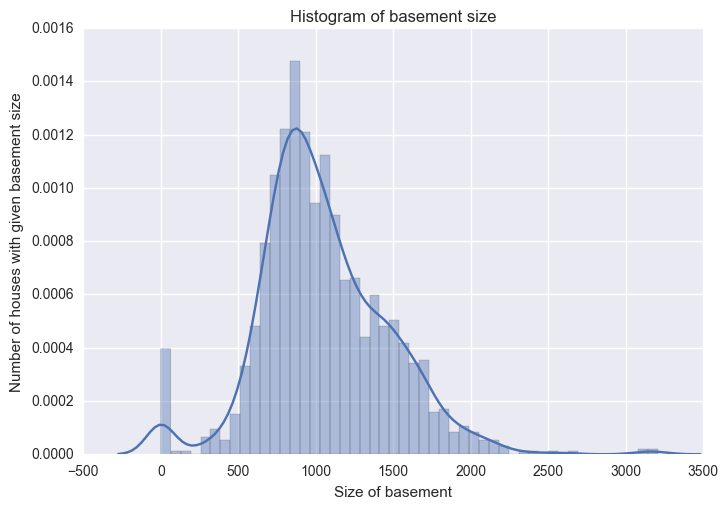
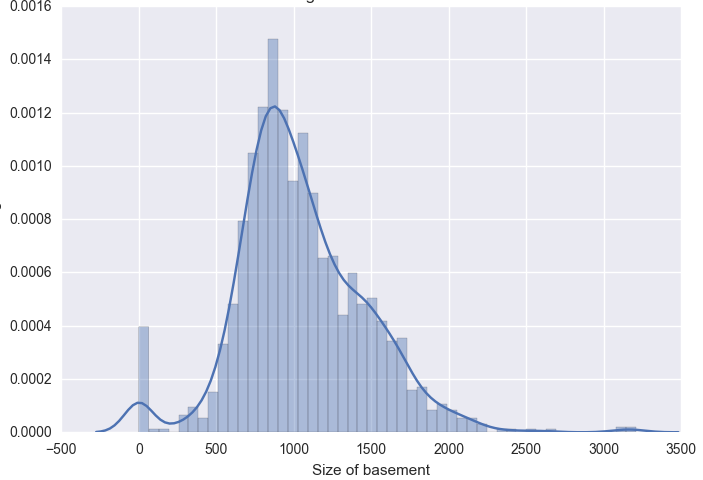
image links

diff --git a/_posts/2017-08-18-house-prices-regression.md b/_posts/2017-08-18-house-prices-regression.md
@@ -29,7 +29,7 @@ test.head(5)
 Some of the columns in the training dataset seem to have a lot of missing values. It would be sensible to drop 
 these columns if the number of missing values comprises more than some threshold (say 15%) of the data in the column.
 
-```
+```python
 frac = train.shape[0]*0.9 # number of non NA values we are satisfied with in each column . Lets say we need at least 90% non-NA values (columns with more than these will be dropped)
 percent_missing = (100*(train.isnull().sum())/train.shape[0]).round(1) 
 percent_missing.sort_values(ascending = False).head(20)
@@ -161,6 +161,8 @@ f,ax = plt.subplots(figsize =(10,10))
 sns.heatmap(corr_matrix, vmax=1,square=True)
 ```
 
+<img src="screenshots/house-prices/heat-map.png">
+
 We find similar variables correlating with each other e.g. `GarageCars` and `GarageArea`, `1stFlrSF` and `TotalBsmtSF`, 
 `GLivArea` and `TotRmsAbvGrd`, `Kitchen`/`external_Qual` shows some correlation with the overall quality 
 (compound variable) and year built. So we can drop one of the variables which show multicollinearity. Here `GarageArea`,
@@ -198,32 +200,28 @@ rules of thumb like: Any value, which is beyond the range of -1.5 x IQR to 1.5 x
 standard deviation away from mean If a few isolated points lie outside the general trend line, then they can be deleted.
 
 ```python
-plt.figure(1)
+import seaborn as sns
+import matplotlib.pyplot as plt 
+%matplotlib inline
+
+plt.figure()
 sns.set(color_codes=True)
 ax = sns.regplot(x="GrLivArea", y="SalePrice", data=train)
 plt.title('Sale Price vs Ground Living Area')
 
-plt.figure(2)
-sns.set(color_codes=True)
-ax = sns.regplot(x="TotalBsmtSF", y="SalePrice", data=train)
-plt.title('Sale Price vs Total Basement size')
-
-plt.figure(3)
-sns.set(color_codes=True)
-ax = sns.regplot(x="FullBath", y="SalePrice", data=train, fit_reg = False)
-plt.title('Sale Price vs Number of bathrooms')
-
-plt.figure(4)
-sns.set(color_codes=True)
-ax = sns.regplot(x="YearBuilt", y="SalePrice", data=train)
-plt.title('Sale Price vs Year Built')
-
-
-plt.figure(5)
-sns.set(color_codes=True)
-ax = sns.regplot(x="GarageCars", y="SalePrice", data=train, fit_reg = False)
-plt.title('Sale Price vs Garage Cars')
 ```
+
+<img src="screenshots/house-prices/scatter/groundliving.png">
+
+<img src="screenshots/house-prices/scatter/basementsize.png">
+
+<img src="screenshots/house-prices/scatter/numberbathrooms.png">
+
+<img src="screenshots/house-prices/scatter/yearbuilt.png">
+
+<img src="screenshots/house-prices/scatter/garagecars.png">
+
+
 Four outliers in the graphs above will be dropped. These corresponding to `GrLivArea` > 4500 and 
 `SalePrice` between 7000 and 8000 in the `Sale Price vs Year Built` graph. The isolated 
 point  in the `Sale Price vs Total Basement Size` graph, corresponding to `TotalBsmtSF` > 6000 
@@ -236,92 +234,53 @@ train =train.drop(train[train.SalePrice == 755000].index)
 train =train.drop(train[train.SalePrice == 745000].index)
 ```
 
-### Normality and linearity
-
-```python
-plt.figure(1)
-sns.distplot(train['SalePrice'], 50)
-plt.xlabel("Sale prices in dollars")
-plt.ylabel("Number of houses with sales price") 
-plt.title("Histogram of sales prices of homes")
-plt.grid(True) 
-plt.show()
-
-
-plt.figure(2)
-sns.distplot(train['TotalBsmtSF'], 50)
-plt.xlabel("Size of basement")
-plt.ylabel("Number of houses with given basement size") 
-plt.title("Histogram of basement size")
-plt.grid(True) 
-plt.show()
-
-plt.figure(3)
-sns.distplot(train['GrLivArea'], 50)
-plt.xlabel("Ground Area")
-plt.ylabel("Number of houses with sales price") 
-plt.title("Histogram of sales prices of homes")
-plt.grid(True) 
-plt.show()
-```
-
 ### Standardisation of datasets
+
+
+<img src="screenshots/house-prices/histogram/basementsize.png">
+
+<img src="screenshots/house-prices/histogram/groundarea.png">
+
 
 Since univariate distributions above are skewed, the data needs to be standardised so individual features are more
 or less look like standard normally distributed data: Gaussian with zero mean and unit variance. One way of doing
 this is by removing the mean value of each feature, then scale it by dividing non-constant features by their standard
-deviation. Alternatively, a log transofrmation can be applied althought it can’t be applied to zero or negative values.
+deviation. Alternatively, a log transformation can be applied althought it can’t be applied to zero or negative values.
 Our second histogram above shows some zero values for basement size which would not be suitable for log transformation
 unless they are removed.
 
+We can do this using the code block below. This will log transform the histogram of ground living area.
 
 ```python
+import numpy as np 
+import matplotlib.pyplot as plt 
+import seaborn as sns
+
 train_new = train.drop(train[train['TotalBsmtSF']==0].index, axis =0)
 
 train_new.loc[:,['SalePrice','TotalBsmtSF','GrLivArea','YearBuilt']] = np.log(train_new[['SalePrice','TotalBsmtSF','GrLivArea','YearBuilt']])
-plt.figure(1)
-sns.distplot(train_new['SalePrice'], 50, color = "g")
-plt.xlabel("log Sale prices")
-plt.ylabel("Number of houses with given price") 
-plt.title("Histogram of sales prices following log transformation")
-plt.grid(True) 
-plt.show()
 
-plt.figure(2)
-sns.distplot(train_new['TotalBsmtSF'], 50, color ="g")
-plt.xlabel("Size of basement")
-plt.ylabel("Number of houses with given basement size") 
-plt.title("Histogram of basement size")
-plt.grid(True) 
-plt.show()
-
-plt.figure(3)
-sns.distplot(train_new['GrLivArea'], 50, color ="g")
-plt.xlabel("Sale prices in dollars")
-plt.ylabel("Number of houses with sales price") 
-plt.title("Histogram of sales prices of homes")
-plt.grid(True) 
-plt.show()
-```
-The distrbutions are now centred and more normally distributed and less skewed.
-
-### Scatter plots after log transformation
-
-We can see that the dense clutter in the scatter plots are now shifted towards the centre following log transormation. 
-As a result, the data will exhibit less less heteroskedasticity (absence of the conical shape like in the 
-previous plots).
-
-```python
 plt.figure()
 sns.set(color_codes=True)
 ax = sns.regplot(x="GrLivArea", y="SalePrice", data=train_new)
 plt.title('Log Sale Price vs Log Ground Living Area')
-
-plt.figure()
-sns.set(color_codes=True)
-ax = sns.regplot(x="TotalBsmtSF", y="SalePrice", data=train_new)
-plt.title('Log Sale Price vs Log Total Basement size')
 ```
+
+<img src="screenshots/house-prices/histogram/loggroundarea.png">
+
+The distribution is now centred and more normally distributed and less skewed.
+
+Similarly we can do the same for the other histograms for `TotalBsmtSF`
+
+<img src="screenshots/house-prices/histogram/logbasementsize.png">
+
+We can see that the dense clutter in the scatter plots are now shifted towards the centre following log 
+transormation. As a result, the data will exhibit less less heteroskedasticity (absence of the conical shape 
+like in the previous plots).
+
+<img src="screenshots/house-prices/scatter/logbasementsize.png">
+
+<img src="screenshots/house-prices/scatter/loggroundarea.png">
 
 
 Now lets apply all the pre-processing tasks above to the test data. We can directly keep the same features in the 
@@ -396,14 +355,15 @@ from sklearn.cross_validation import cross_val_score,cross_val_predict,Stratifie
 from sklearn import linear_model, svm
 from sklearn.ensemble import GradientBoostingRegressor as xgb 
 from sklearn.metrics import confusion_matrix,accuracy_score,f1_score
+from sklearn import preprocessing 
 
-# Ridge Regression with built in cross validation
+# Ridge Regression 
 
 clf_Ridge = linear_model.Ridge(fit_intercept=True, normalize=True, alpha = 0.01) 
 clf_Ridge.fit(train_x, train_y)  
 clf_Ridge_score = cross_val_score(clf_Ridge,train_x, train_y, cv = 10, scoring = 'r2')
 
-# Support Vecotr Regression #####
+# Support Vector Regression 
 X_scaler = preprocessing.StandardScaler()
 train_x = X_scaler.fit_transform(train_x)
 clf_SVR = svm.SVR(kernel='rbf', gamma='auto',C = 1,epsilon = 0.1)
@@ -429,6 +389,14 @@ print("The R2 score using for Ridge is %f" % (clf_Ridge_score.mean()))
 print("The R2 score for Lasso is %f" % (clf_lasso_score.mean())) 
 print("The R2 score for SVR is %f" % (clf_SVR_score.mean())) 
 print("The R2 score for Gradient Boosting Regression is %f" % (clf_xgb_score.mean())) 
+
+
+'''
+The R2 score using for Ridge is 0.825067
+The R2 score for Lasso is 0.825010
+The R2 score for SVR is 0.826482
+The R2 score for Gradient Boosting Regression is 0.834290
+'''
 
 ```
 
